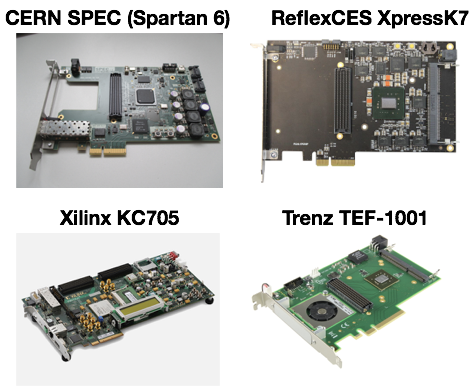
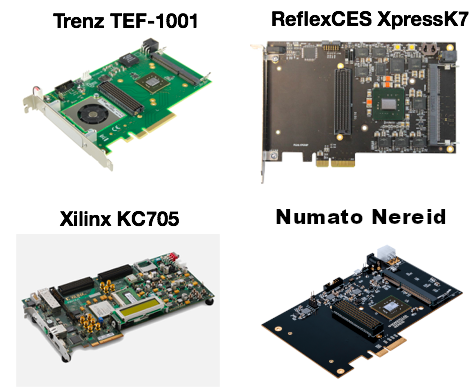
add nereid to docs

diff --git a/docs/fw_guide.md b/docs/fw_guide.md
@@ -2,7 +2,7 @@
 
 Note: For instructions for switching to the 1.28 Gbps firmware, please refer to the [Guide for Updating Firmware](updating_firmware.md)
 
-For the YARR readout, most commonly Series 7 FPGAs are used - specifically the TEF1001 is the recommended FPGA, and XpressK7 and KC705 are also supported. If in doubt of what you have, see the following picture for identification:
+For the YARR readout, most commonly Series 7 FPGAs are used - specifically the TEF1001 is the recommended FPGA, XpressK7, KC705 and Nereid are also supported. If in doubt of what you have, see the following picture for identification:
 
 ![Supported PCIe cards](images/pcie_cards.png)
 
@@ -110,6 +110,14 @@ As this card is not produced anymore by PLDA and you require more information, r
 #### Xilinx KC705
 
 ![KC705](images/kc705.jpg)
+
+#### Numato Nereid (with Kintex-7 XC7K160T)
+
+![Nereid](images/nereid.jpg)
+
+* A jumper has to be placed at the 1V8 pins on the J3 header.
+
+More info can be found [here](https://numato.com/product/nereid-kintex-7-pci-express-fpga-development-board/).
 
 #### CERN SPEC Spartan6
 
